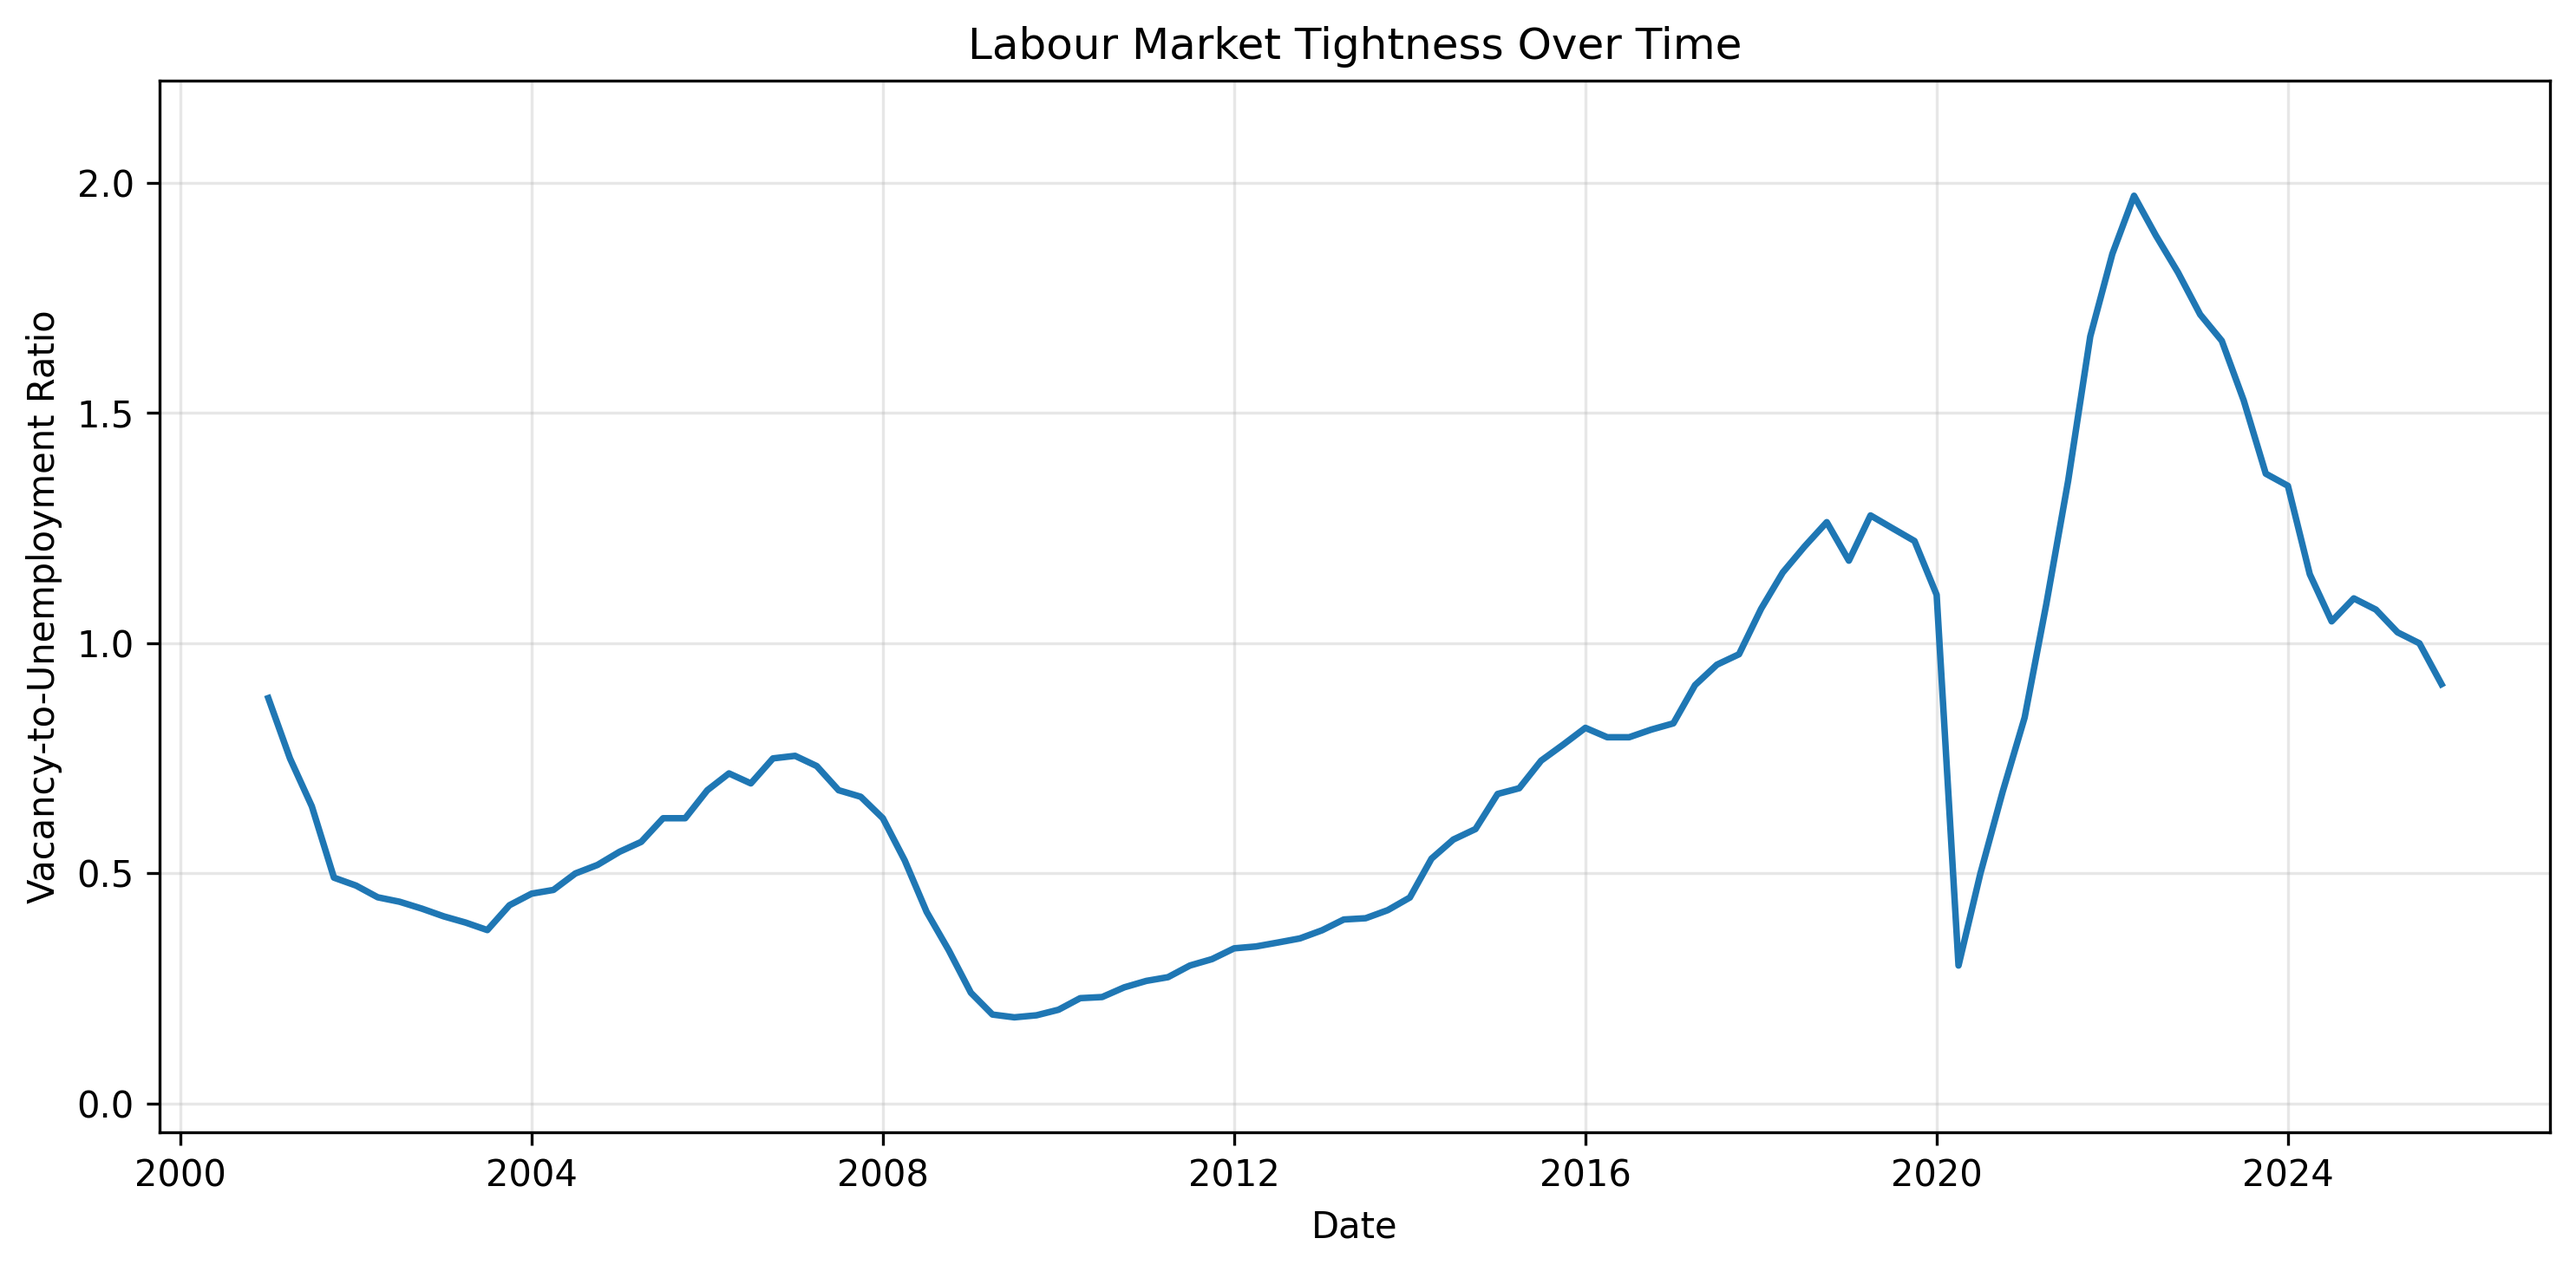
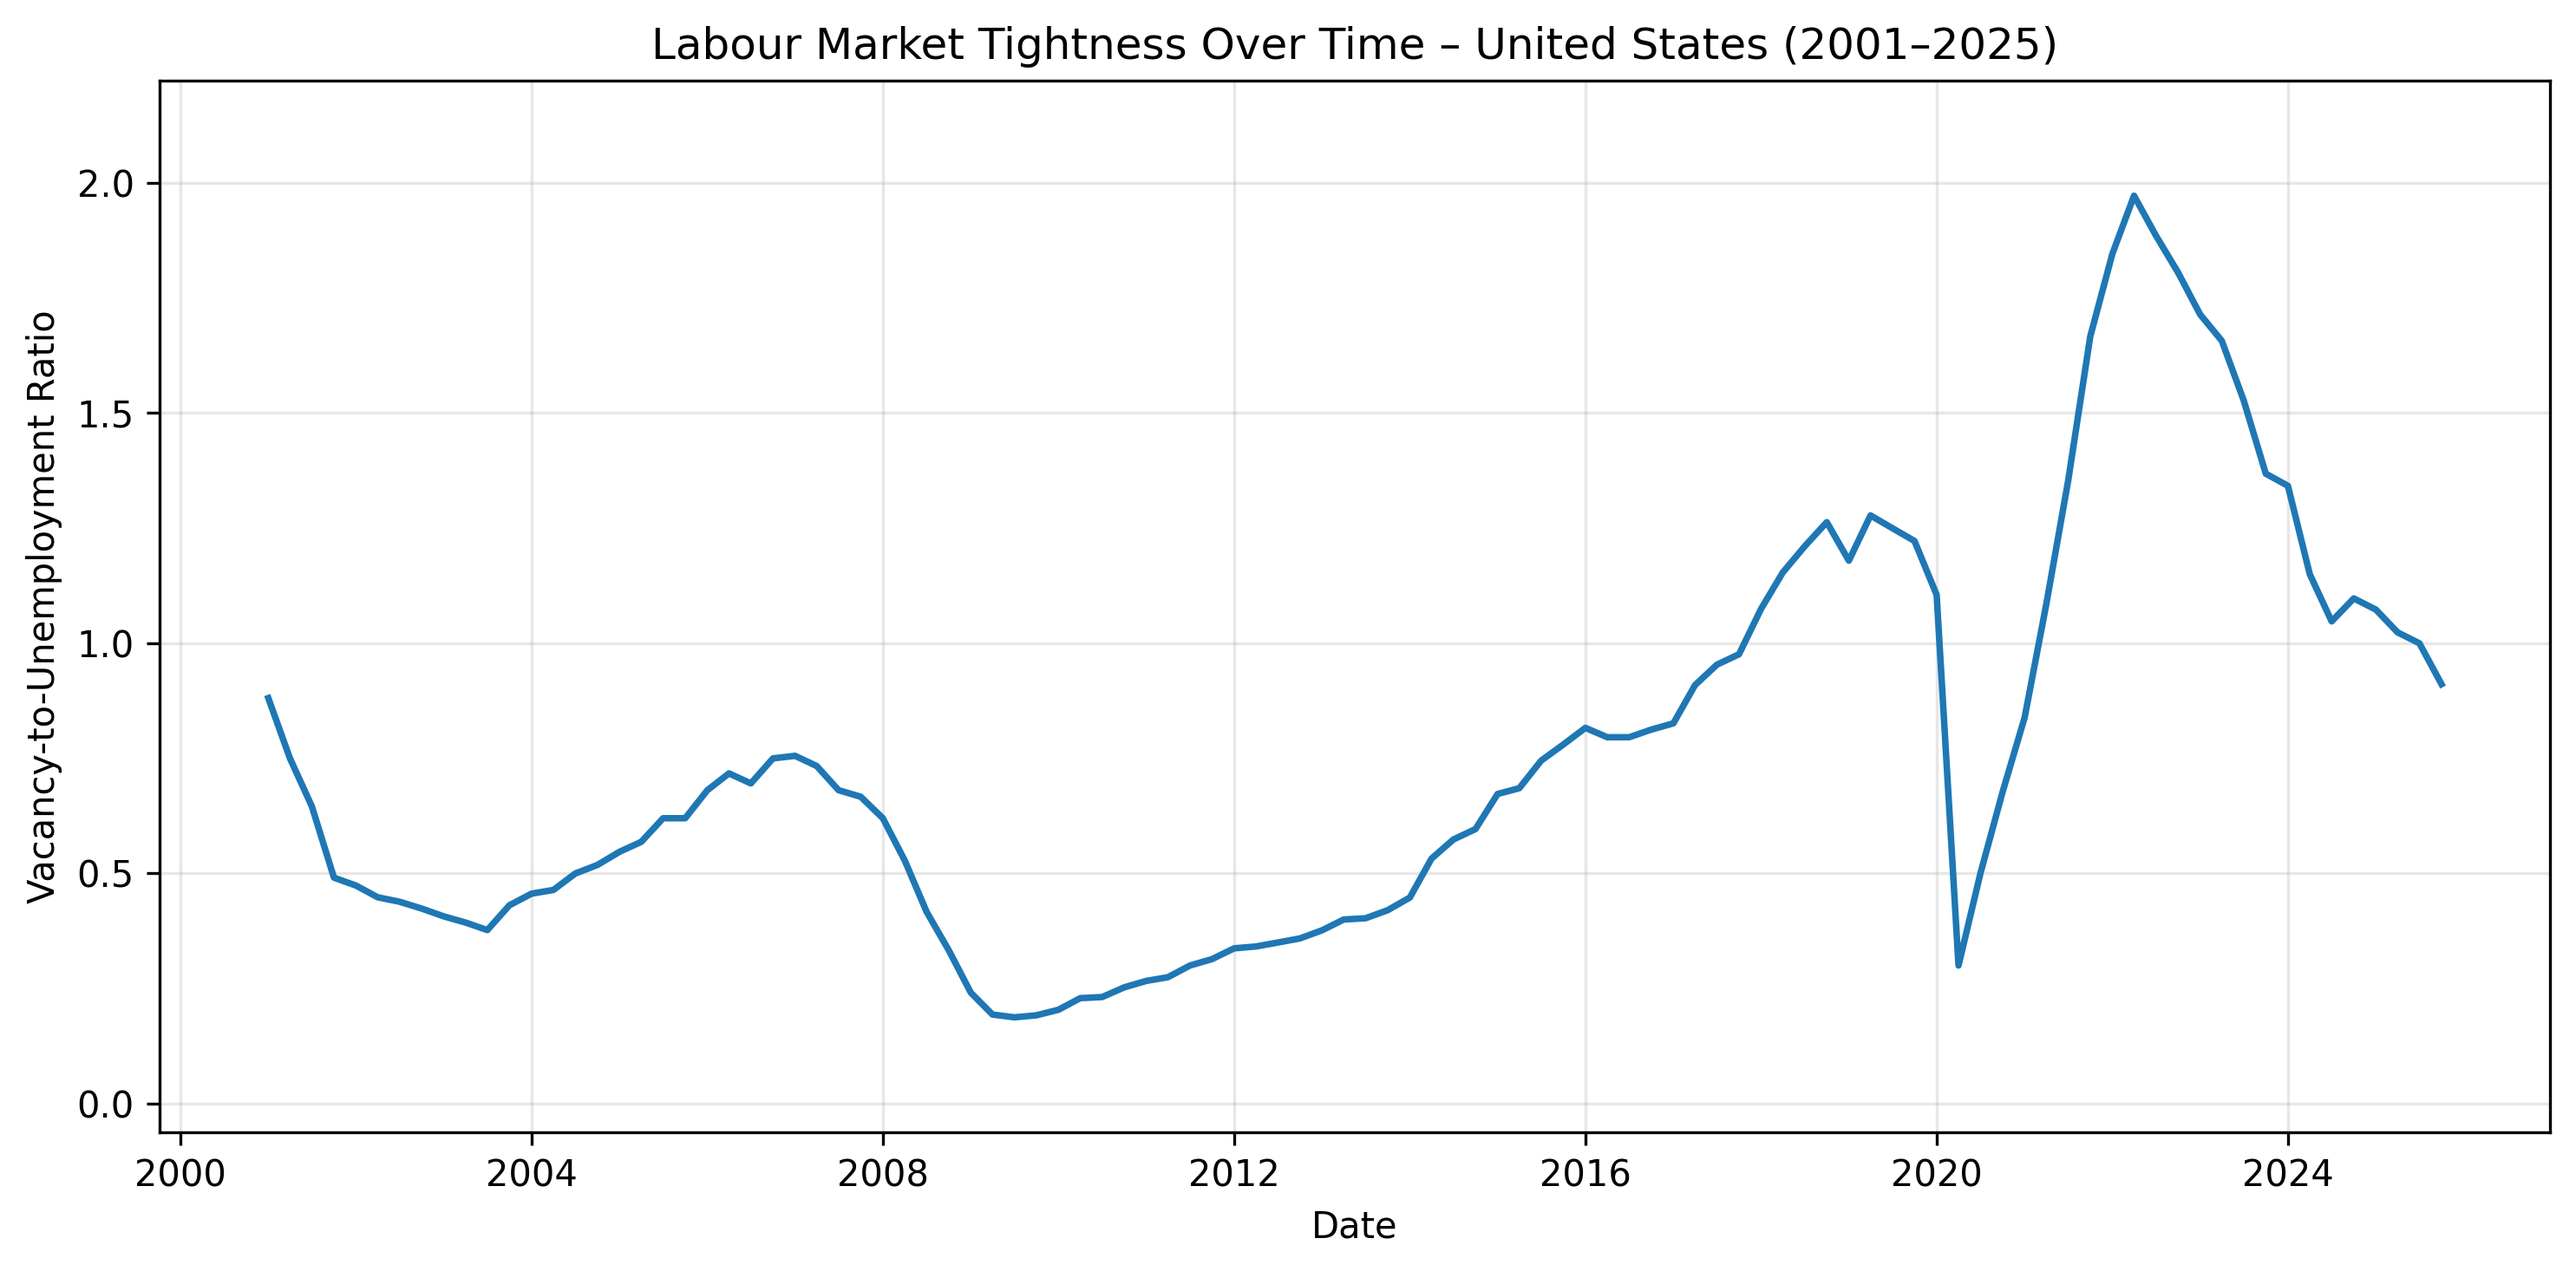
Standardise chart titles with country and sample period

Changed region(s): [[0.2478, 0.0, 0.8054, 0.0614]]

diff --git a/us_macro_analysis/src/us_macro_analysis.py b/us_macro_analysis/src/us_macro_analysis.py
@@ -31,7 +31,6 @@ def write_to_txt(text: str) -> None:
         f.write(text)
         f.write("\n\n")
 
-
 def load_csv(file_name: str) -> pd.DataFrame:
     """
     Load CSV using project-specific formatting:
@@ -53,6 +52,12 @@ def load_csv(file_name: str) -> pd.DataFrame:
     df = df.sort_values("Date").reset_index(drop=True)
     return df
 
+def build_title(base_title: str, df: pd.DataFrame, date_col: str = "Date") -> str:
+    df_valid = df.dropna(subset=[date_col])
+    start_year = df_valid[date_col].dt.year.min()
+    end_year = df_valid[date_col].dt.year.max()
+
+    return f"{base_title} – United States ({start_year}–{end_year})"
 
 def run_ols(y: pd.Series, X: pd.DataFrame, model_name: str):
     """
@@ -76,7 +81,6 @@ def run_ols(y: pd.Series, X: pd.DataFrame, model_name: str):
     write_to_txt(output)
 
     return model
-
 
 def save_line_plot(
     df: pd.DataFrame,
@@ -137,7 +141,6 @@ def save_line_plot(
     plt.tight_layout()
     plt.savefig(OUTPUTS_DIR / file_name, dpi=300, bbox_inches="tight")
     plt.close()
-
 
 def save_scatter_plot(
     df: pd.DataFrame,
@@ -228,7 +231,6 @@ def save_scatter_plot(
     plt.savefig(OUTPUTS_DIR / file_name, dpi=300, bbox_inches="tight")
     plt.close()
 
-
 # =========================================================
 # SAHM RULE
 # Indicator framework, not regression
@@ -285,7 +287,7 @@ def run_sahm_rule() -> pd.DataFrame:
         x_col="Date",
         y_cols="SAHM_RULE",
         labels="Sahm Rule",
-        title="Sahm Rule Indicator",
+        title=build_title("Sahm Rule Indicator",df),
         y_label="Unemployment Increase (pp)",
         file_name="sahm_rule.png",
         y_limits="auto",
@@ -293,7 +295,6 @@ def run_sahm_rule() -> pd.DataFrame:
     )
 
     return df
-
 
 # =========================================================
 # BEVERIDGE CURVE + TIGHTNESS
@@ -321,7 +322,7 @@ def run_beveridge_curve() -> pd.DataFrame:
         df=df,
         x_col="U_RATE",
         y_col="JOB_OPENINGS_RATE",
-        title="Beveridge Curve",
+        title=build_title("Beveridge Curve", df),
         x_label="Unemployment Rate (%)",
         y_label="Job Openings Rate (%)",
         file_name="beveridge_curve_scatter.png",
@@ -346,7 +347,7 @@ def run_beveridge_curve() -> pd.DataFrame:
         x_col="Date",
         y_cols="TIGHTNESS",
         labels="Labour Market Tightness",
-        title="Labour Market Tightness Over Time",
+        title=build_title("Labour Market Tightness Over Time",df),
         y_label="Vacancy-to-Unemployment Ratio",
         file_name="labour_market_tightness.png",
         show_legend=False,
@@ -403,7 +404,10 @@ def run_beveridge_curve() -> pd.DataFrame:
 
         plt.plot(x_line_ex, y_line_ex, linewidth=2.5, label="Quadratic fit - ex-COVID")
 
-    plt.title("Beveridge Curve: Full Sample vs Ex-COVID")
+    title_full = build_title("Beveridge Curve (Full Sample)", df)
+    title_ex = build_title("Ex-COVID", df_ex_covid)
+
+    plt.title(f"{title_full} vs {title_ex}")
     plt.xlabel("Unemployment Rate (%)")
     plt.ylabel("Job Openings Rate (%)")
     plt.legend(frameon=False)
@@ -413,7 +417,6 @@ def run_beveridge_curve() -> pd.DataFrame:
     plt.close()
 
     return df
-
 
 # =========================================================
 # OKUN'S LAW - LEVEL
@@ -440,7 +443,7 @@ def run_okun_level() -> pd.DataFrame:
         df=df,
         x_col="Y_GAP",
         y_col="U_GAP",
-        title="Okun's Law (Level Specification)",
+        title=build_title("Okun's Law (Level Specification)", df),
         x_label="Output Gap (%)",
         y_label="Unemployment Gap (pp)",
         file_name="okun_level_scatter.png",
@@ -448,7 +451,6 @@ def run_okun_level() -> pd.DataFrame:
     )
 
     return df
-
 
 # =========================================================
 # OKUN'S LAW - DIFFERENCE
@@ -475,7 +477,7 @@ def run_okun_difference() -> pd.DataFrame:
         df=df,
         x_col="Y_GROWTH_GAP",
         y_col="U_DELTA",
-        title="Okun's Law (Difference Specification)",
+        title=build_title("Okun's Law (Difference Specification)", df),
         x_label="Output Growth Gap (pp)",
         y_label="Delta Unemployment Rate (pp)",
         file_name="okun_difference_scatter.png",
@@ -485,7 +487,6 @@ def run_okun_difference() -> pd.DataFrame:
     )
 
     return df
-
 
 # =========================================================
 # PHILLIPS CURVE
@@ -512,7 +513,7 @@ def run_phillips_curve() -> pd.DataFrame:
         df=df,
         x_col="U_GAP",
         y_col="PCE_HEAD",
-        title="Phillips Curve (Illustrative Scatter)",
+        title=build_title("Phillips Curve (Illustrative Scatter)", df),
         x_label="Unemployment Gap (pp)",
         y_label="Headline PCE Inflation (%)",
         file_name="phillips_scatter_illustrative.png",
@@ -521,7 +522,6 @@ def run_phillips_curve() -> pd.DataFrame:
     )
 
     return df
-
 
 # =========================================================
 # TAYLOR RULE - Y GAP / CORE
@@ -554,14 +554,13 @@ def run_taylor_y_gap_core() -> pd.DataFrame:
         x_col="Date",
         y_cols=["FEDFUNDS", "TAYLOR_IMPLIED_Y_CORE"],
         labels=["Fed Funds Rate", "Taylor Implied Rate"],
-        title="Taylor Rule: Y-Gap + Core PCE",
+        title=build_title("Taylor Rule: Y-Gap + Core PCE",df),
         y_label="Interest Rate (%)",
         file_name="taylor_y_gap_core.png",
         y_limits="auto"
     )
 
     return df
-
 
 # =========================================================
 # TAYLOR RULE - Y GAP / HEADLINE
@@ -594,14 +593,13 @@ def run_taylor_y_gap_headline() -> pd.DataFrame:
         x_col="Date",
         y_cols=["FEDFUNDS", "TAYLOR_IMPLIED_Y_HEAD"],
         labels=["Fed Funds Rate", "Taylor Implied Rate"],
-        title="Taylor Rule: Y-Gap + Headline PCE",
+        title=build_title("Taylor Rule: Y-Gap + Headline PCE",df),
         y_label="Interest Rate (%)",
         file_name="taylor_y_gap_headline.png",
         y_limits="auto"
     )
 
     return df
-
 
 # =========================================================
 # TAYLOR RULE - U GAP / CORE
@@ -634,14 +632,13 @@ def run_taylor_u_gap_core() -> pd.DataFrame:
         x_col="Date",
         y_cols=["FEDFUNDS", "TAYLOR_IMPLIED_U_CORE"],
         labels=["Fed Funds Rate", "Taylor Implied Rate"],
-        title="Taylor Rule: U-Gap + Core PCE",
+        title=build_title("Taylor Rule: U-Gap + Core PCE",df),
         y_label="Interest Rate (%)",
         file_name="taylor_u_gap_core.png",
         y_limits="auto"
     )
 
     return df
-
 
 # =========================================================
 # TAYLOR RULE - U GAP / HEADLINE
@@ -674,14 +671,13 @@ def run_taylor_u_gap_headline() -> pd.DataFrame:
         x_col="Date",
         y_cols=["FEDFUNDS", "TAYLOR_IMPLIED_U_HEAD"],
         labels=["Fed Funds Rate", "Taylor Implied Rate"],
-        title="Taylor Rule: U-Gap + Headline PCE",
+        title=build_title("Taylor Rule: U-Gap + Headline PCE",df),
         y_label="Interest Rate (%)",
         file_name="taylor_u_gap_headline.png",
         y_limits="auto"
     )
 
     return df
-
 
 # =========================================================
 # MAIN
@@ -715,7 +711,6 @@ def main() -> None:
 
     print(final_message)
     write_to_txt(final_message)
-
 
 if __name__ == "__main__":
     main()
